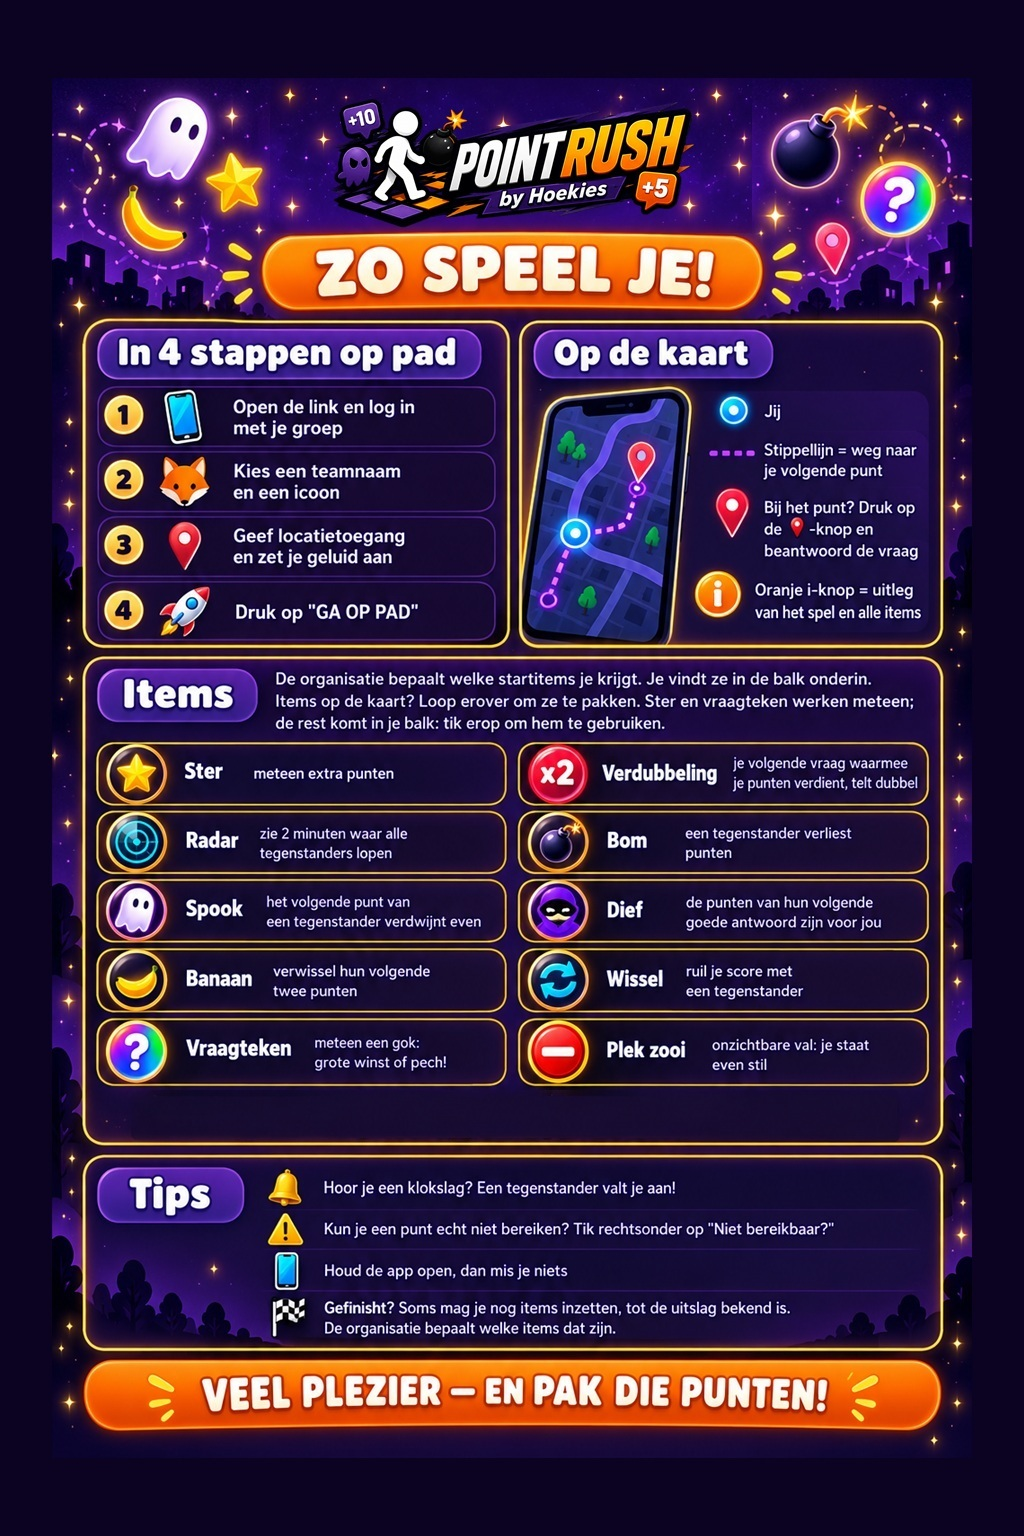
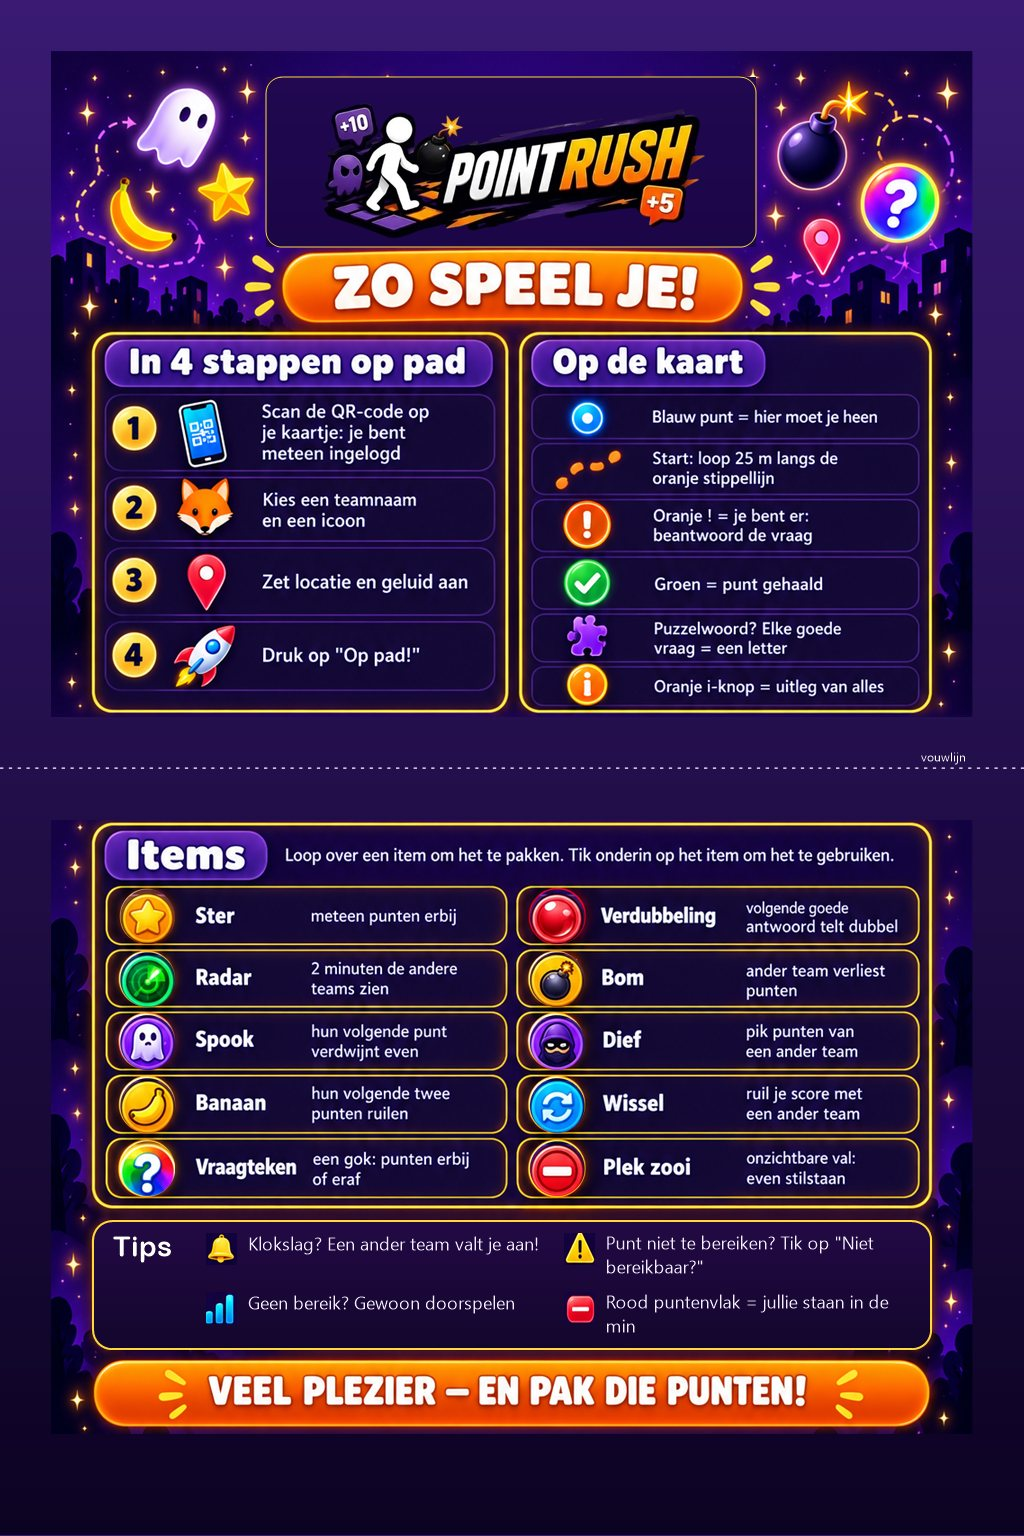
Nieuwe spelerskaart (A5, vouwlijn), prompts routekaarten, opruimen
- public/handleiding.jpg en klein-spelers.webp: nieuwe spelerskaart
- Prompts voor de routekaarten in dezelfde stijl (Codex)
- Printen van alle instructiekaarten op A5; printbare pagina weggehaald
- .gitignore opgeschoond

diff --git a/components/admin/InfoKnop.tsx b/components/admin/InfoKnop.tsx
@@ -11,8 +11,8 @@ import { useSluitMetEsc } from "@/components/shared/Venster";
 // papier = formaat bij 🖨 Printen
 const KAARTEN = [
   { titel: "Spelers (A5)", src: "/handleiding.jpg", klein: "/kaarten/klein-spelers.webp", papier: "A5" },
-  { titel: "Route op volgorde", src: "/kaarten/route-op-volgorde.webp", klein: "/kaarten/klein-route-op-volgorde.webp", papier: "A4" },
-  { titel: "Verspreide route", src: "/kaarten/verspreid.webp", klein: "/kaarten/klein-verspreid.webp", papier: "A4" },
+  { titel: "Route op volgorde", src: "/kaarten/route-op-volgorde.webp", klein: "/kaarten/klein-route-op-volgorde.webp", papier: "A5" },
+  { titel: "Verspreide route", src: "/kaarten/verspreid.webp", klein: "/kaarten/klein-verspreid.webp", papier: "A5" },
 ];
 
 // 🖨 Kaart printen: een eigen venster met alleen de kaart, staand op het juiste papier, zonder marges;
@@ -69,15 +69,6 @@ export default function InfoKnop() {
                 </div>
               ))}
             </div>
-
-            {/* Reserve: dezelfde spelerskaart als pagina, altijd gelijk aan de uitleg in de app (A5, dubbel te vouwen) */}
-            <a href="/admin/instructiekaart" className="info-regel" onClick={() => setOpen(false)}>
-              <span style={{ fontSize: "1.6rem" }}>🃏</span>
-              <span>
-                <strong>Spelerskaart om te printen</strong>
-                <span className="info-sub">A5, dubbel te vouwen; altijd gelijk aan de uitleg in de app</span>
-              </span>
-            </a>
 
             <div className="info-kofi"><KoFiKnop /></div>
             <VersieRegel />

diff --git a/docs/afbeelding-prompt-verspreid.md b/docs/afbeelding-prompt-verspreid.md
@@ -1,71 +1,57 @@
 # Afbeelding-prompt — Verspreide route (lus)
 
-Plak de tekst hieronder (in de codeblok) in ChatGPT om een geïllustreerde, posterachtige
-spelhandleiding te laten genereren voor het speltype **Verspreide route**. Gebaseerd op
-[spel-verspreid.md](spel-verspreid.md) en het kleurenpalet van de app.
+Prompt voor **Codex**: maakt de instructiekaart voor het speltype **Verspreide route**, in dezelfde stijl
+als de spelerskaart (`public/handleiding.jpg`), en vervangt de kaart in `public/kaarten/`. Maak eerst de
+spelerskaart, dan deze: Codex neemt de stijl daarvan over. Gebaseerd op [spel-verspreid.md](spel-verspreid.md).
 
 ```
-Create a single vertical poster-style infographic (portrait, 1024x1536) that works as a
-quick-reference game manual for a GPS scavenger hunt mobile game called "PointRush".
-All text, labels and headers inside the image must be in DUTCH, written exactly as given
-below — do not translate or invent extra text.
+Maak een nieuwe printbare instructiekaart voor het speltype "Verspreide route" van de GPS-game PointRush en vervang daarmee de bestaande kaart in deze repo. Pas geen code aan.
 
-VISUAL STYLE: dark, glowing "game night" aesthetic. Background is a radial gradient from
-deep purple (#3a1a73) through indigo (#1c0c45) to near-black (#0c0322), like a night sky.
-Rounded glassy dark-navy panels (frosted glass cards, subtle cyan border glow) hold each
-section. Bold, chunky, rounded display typography (similar to "Space Grotesk" bold),
-white/light-blue body text (#e8f0ff). Accent colors for icons, borders and highlights:
-electric cyan (#00d9ff), gold/yellow (#ffd93b), orange (#ff8a00), green (#22c55e), red
-(#ff3b5c), purple (#8b5cf6). Small glowing sparkle/star particles floating in the
-background. Flat vector illustration style, game-UI look, NOT photorealistic.
+STIJL: precies dezelfde stijl als de spelerskaart public/handleiding.jpg (achtergrond, panelen met gouden rand, letters, kleuren, oranje pillen en balk, sparkles). Gebruik public/logo-breed.png als logo (exact overnemen: niet hertekenen, niet herletteren, niet verkleuren) en de iconen uit public/items/<naam>.webp als voorbeeld voor items.
 
-TITLE (top banner, large): "🎲 Verspreide route — speluitleg"
-Subtitle beneath it: "Zelfde lus, ieder team een eigen startpunt."
+FORMAAT EN VOUWEN (belangrijk):
+- Staand, verhouding 2:3 (1024x1536), voor A5.
+- De kaart wordt dubbel gevouwen: precies op de helft van de hoogte een horizontale vouwlijn als dunne witte STIPPELLIJN over de hele breedte, rechts klein het woord "vouwlijn".
+- GEEN paneel, tekst of icoon over de vouwlijn: alles volledig in de bovenste óf onderste helft, met minstens 3% ruimte boven en onder de lijn. Alles minstens 5% van de buitenrand af.
 
-SECTION 1 — "Het idee" — a small diagram showing a circular loop of 6 numbered dots with a
-house-and-flag start/finish icon (🏠🏁) in the center. Three differently colored team arrows
-leave the center, each join the loop at a different dot, go around the loop, and return to the
-same center. The three team arrows from the center to the loop are about equally long. Caption:
-"Iedereen start en finisht op dezelfde plek. Elk team stapt op een eigen punt in de lus,
-ongeveer even ver van de start — je hoeft nooit te racen naar hetzelfde punt."
+TAAL: alle tekst in het NEDERLANDS, exact zoals hieronder. Geen andere tekst toevoegen of vertalen. Gebruik nooit het woord "hub".
 
-SECTION 2 — "Hoe begin je?" (4 numbered steps, each with a small icon):
-1. 📱 Open de link en log in met je groep
-2. 🦊 Kies een teamnaam en icoon
-3. 📍 Geef locatietoegang
-4. 🚀 Druk op "Ga op pad" — je krijgt je eigen startpunt
-Small note under the steps: "Soms krijg je bij de start al items gratis in je balk."
+BOVENSTE HELFT:
+1. Het logo, bovenaan in het midden.
+2. Glanzende oranje pil: "VERSPREIDE ROUTE"
+3. Paneel "Het idee" met een klein schema: een rondje van 6 genummerde punten, in het midden een vlag 🏁 (start en finish). Drie gekleurde team-pijlen gaan van het midden naar elk een ander punt op het rondje, ongeveer even lang. Onderschrift:
+   "Iedereen start en finisht op dezelfde plek. Elk team begint op een ander punt van het rondje."
+4. Paneel "Zo gaat het" (genummerd 1–4 in gouden rondjes):
+   1 📷 Scan de QR-code op je kaartje
+   2 🦊 Kies een teamnaam en een icoon
+   3 🚀 Druk op "Op pad!"
+   4 🟠 Loop 25 m langs de oranje stippellijn: dan krijg je je eerste vraag
 
-SECTION 3 — "De kaart" (small stylized map illustration with legend of map symbols):
-- 🦊 jullie teamicoon in een blauw rondje = jouw locatie
-- 🔢 genummerd cirkeltje = het volgende doel
-- ✅ groen vinkje = al bezocht
-- 👥 lichte stip = ander team, elders in de lus
-- ⛔ onzichtbaar = Plek zooi-val
-Caption: "Kom je een ander team tegen? Die is ergens anders in de lus bezig, jullie
-volgorde is niet gelijk."
+ONDERSTE HELFT:
+5. Paneel "Items". Eerst één regel: "Loop over een item om het te pakken. Tik onderin op het item om het te gebruiken."
+   Daarna een raster van 2 kolommen × 5 rijen, in precies deze volgorde (rond icoon + vette naam + korte uitleg):
+   Ster — meteen punten erbij
+   Verdubbeling — volgende goede antwoord telt dubbel
+   Radar — 2 minuten de andere teams zien
+   Bom — ander team verliest punten
+   Spook — hun volgende punt verdwijnt even
+   Dief — pik punten van een ander team
+   Banaan — hun volgende twee punten ruilen
+   Wissel — ruil je score met een ander team
+   Vraagteken — een gok: punten erbij of eraf
+   Plek zooi — onzichtbare val: even stilstaan
+6. Paneel "Tips" (2 kolommen):
+   👣 Loop niet achter een ander team aan: hun volgorde is anders
+   🔄 Komen items terug? Dan loont nog een rondje
+   🔔 Klokslag? Een ander team valt je aan!
+   🧩 Puzzelwoord? Elke goede vraag = een letter
+7. Onderaan een brede glanzende oranje balk met witte tekst: "PAK DE PUNTEN EN MAAK HET WOORD!"
 
-SECTION 4 — "Speciale items" as an icon grid of 2 columns × 5 rows, in exactly this order,
-each cell = emoji + short Dutch label:
-⭐ Ster — meteen extra punten · 🔴 Verdubbeling — volgende vraag telt dubbel
-📡 Radar — zie alle tegenstanders · 💣 Bom — tegenstander verliest punten
-👻 Spook — hun volgende punt verdwijnt · 🦹 Dief — steel hun volgende punten
-🍌 Banaan — gooi hun volgende punt om · 🔄 Wissel — ruil je score
-❓ Vraagteken — meteen een gok: winst of pech · ⛔ Plek zooi — onzichtbare val
-Small note: "Ster en vraagteken werken meteen. De rest komt in je balk: tik erop en kies
-een tegenstander. Uitleg staat onder de i-knop."
-Small note with a "🔄 respawn" badge icon: "Staat respawn aan? Dan komen opgeraapte items
-later weer terug op de kaart."
+Overzichtelijk en in een paar seconden te scannen: duidelijke hiërarchie, ruime marges, consequente ronde vormen, geen extra tekst.
 
-SECTION 5 — "Tips" (short bullet list with a lightbulb icon 💡):
-- Ga niet achter een ander team aan, hun volgorde is anders dan die van jou
-- Staat respawn aan? Dan loont een tweede rondje langs een goede plek
-- Je items blijven in je balk, ook als de app herlaadt
-- Gefinisht? Soms mag je nog items inzetten op teams die onderweg zijn, tot de uitslag bekend is
-
-FOOTER banner: "🏁 Terug bij de start staat je score vast — bekijk de eindstand!"
-
-Never use the word "hub" anywhere in the image; call the shared start/finish spot "start"
-or "de start". Layout: clear visual hierarchy, generous padding, rounded corners everywhere, no
-photorealistic humans, no readable brand logos other than the "PointRush" title itself.
+NA HET MAKEN:
+1. Sla het origineel op als "extra info/instructiekaart/verspreid.png".
+2. Vervang public/kaarten/verspreid.webp en public/kaarten/verspreid.jpg (1024x1536; webp en jpg kwaliteit ±85, elk kleiner dan 600 KB).
+3. Vervang public/kaarten/klein-verspreid.webp door een verkleinde versie met dezelfde afmetingen als het huidige bestand.
+4. Meld welke bestanden zijn vervangen, met afmetingen en grootte.
 ```

diff --git a/docs/afbeelding-prompt-sequentieel.md b/docs/afbeelding-prompt-sequentieel.md
@@ -1,54 +1,55 @@
 # Afbeelding-prompt — Route op volgorde (Sequentieel)
 
-Plak de tekst hieronder (in de codeblok) in ChatGPT om een geïllustreerde, posterachtige
-spelhandleiding te laten genereren voor het speltype **Route op volgorde**. Gebaseerd op
-[spel-sequentieel.md](spel-sequentieel.md) en het kleurenpalet van de app.
+Prompt voor **Codex**: maakt de instructiekaart voor het speltype **Route op volgorde**, in dezelfde stijl
+als de spelerskaart (`public/handleiding.jpg`), en vervangt de kaart in `public/kaarten/`. Maak eerst de
+spelerskaart, dan deze: Codex neemt de stijl daarvan over. Gebaseerd op [spel-sequentieel.md](spel-sequentieel.md).
 
 ```
-Create a single vertical poster-style infographic (portrait, 1024x1536) that works as a
-quick-reference game manual for a GPS scavenger hunt mobile game called "PointRush".
-All text, labels and headers inside the image must be in DUTCH, written exactly as given
-below — do not translate or invent extra text.
+Maak een nieuwe printbare instructiekaart voor het speltype "Route op volgorde" van de GPS-game PointRush en vervang daarmee de bestaande kaart in deze repo. Pas geen code aan.
 
-VISUAL STYLE: dark, glowing "game night" aesthetic. Background is a radial gradient from
-deep purple (#3a1a73) through indigo (#1c0c45) to near-black (#0c0322), like a night sky.
-Rounded glassy dark-navy panels (like frosted glass cards, subtle cyan border glow) hold
-each section. Bold, chunky, rounded display typography (similar to "Space Grotesk" bold),
-white/light-blue body text (#e8f0ff). Accent colors used for icons, borders and highlights:
-electric cyan (#00d9ff), gold/yellow (#ffd93b), orange (#ff8a00), green (#22c55e), red
-(#ff3b5c), purple (#8b5cf6). Small glowing sparkle/star particles floating in the background.
-Flat vector illustration style, game-UI look, NOT photorealistic.
+STIJL: precies dezelfde stijl als de spelerskaart public/handleiding.jpg (achtergrond, panelen met gouden rand, letters, kleuren, oranje pillen en balk, sparkles). Gebruik public/logo-breed.png als logo (exact overnemen: niet hertekenen, niet herletteren, niet verkleuren) en de iconen uit public/items/<naam>.webp als voorbeeld voor items.
 
-TITLE (top banner, large): "🎯 Route op volgorde — speluitleg"
-Subtitle beneath it: "Loop de route. Pak de punten. Saboteer je vrienden."
+FORMAAT EN VOUWEN (belangrijk):
+- Staand, verhouding 2:3 (1024x1536), voor A5.
+- De kaart wordt dubbel gevouwen: precies op de helft van de hoogte een horizontale vouwlijn als dunne witte STIPPELLIJN over de hele breedte, rechts klein het woord "vouwlijn".
+- GEEN paneel, tekst of icoon over de vouwlijn: alles volledig in de bovenste óf onderste helft, met minstens 3% ruimte boven en onder de lijn. Alles minstens 5% van de buitenrand af.
 
-SECTION 1 — "Hoe begin je?" (4 numbered steps in a row or stack, each with a small icon):
-1. 📱 Open de link en log in met je groep
-2. 🦊 Kies een teamnaam en icoon
-3. 📍 Geef locatietoegang
-4. 🚀 Druk op "Ga op pad"
+TAAL: alle tekst in het NEDERLANDS, exact zoals hieronder. Geen andere tekst toevoegen of vertalen.
 
-SECTION 2 — "De kaart" (a small stylized map illustration with a legend of 5 map symbols):
-- 🦊 jullie teamicoon in een blauw rondje = jouw locatie
-- 🔢 genummerd cirkeltje = het volgende doel
-- ✅ groen vinkje = al bezocht
-- 👥 lichte stip = ander team (globale positie)
-- ⛔ onzichtbaar = Plek zooi-val
-Caption under the map: "Toekomstige punten zijn onzichtbaar — pas als je het huidige punt
-hebt afgerond, verschijnt het volgende."
+BOVENSTE HELFT:
+1. Het logo, bovenaan in het midden.
+2. Glanzende oranje pil: "ROUTE OP VOLGORDE"
+3. Eén korte regel eronder: "Loop de punten één voor één af. Wie de meeste punten haalt, wint."
+4. Twee panelen naast elkaar:
+   Paneel "Zo gaat het" (genummerd 1–4 in gouden rondjes):
+   1 📷 Scan de QR-code op je kaartje
+   2 🦊 Kies een teamnaam en een icoon
+   3 🚀 Druk op "Op pad!"
+   4 📍 Loop naar het blauwe punt: daar krijg je een vraag
+   Paneel "Op de kaart":
+   🔵 Blauw punt = hier moet je heen
+   ❗ Oranje ! = je bent er: beantwoord de vraag
+   ✅ Groen = punt gehaald
+   👀 Pas na dit punt zie je het volgende
+   🏁 Vlag = de finish
 
-SECTION 3 — "Je startitems" with two icon cards side by side:
-🍌 Banaan — "Na de eerste 100 meter krijg je startitems van de organisatie, meestal een banaan.
-Gooi hem naar een tegenstander: hun volgende punt wordt omgewisseld (het eindpunt nooit)."
-⛔ Plek zooi — "Onzichtbare val op de kaart. Loop je erover, dan sta je een paar minuten stil."
+ONDERSTE HELFT:
+5. Paneel "Items" met twee grote kaartjes naast elkaar:
+   🍌 Banaan — "Je start met een banaan. Gooi hem naar een ander team: hun volgende twee punten ruilen. Zij lopen dus om."
+   ⛔ Plek zooi — "Een onzichtbare val op de route. Loop je erin, dan sta je even stil."
+   Eronder klein: "De organisatie kan andere startitems kiezen. Tik onderin op een item om het te gebruiken."
+6. Paneel "Tips":
+   💡 Bewaar je banaan voor het juiste moment
+   🎯 Gooi hem naar een team dat bijna bij een punt is
+   🔔 Klokslag? Een ander team valt je aan!
+   🧩 Puzzelwoord? Elke goede vraag = een letter
+7. Onderaan een brede glanzende oranje balk met witte tekst: "PAK DE PUNTEN EN MAAK HET WOORD!"
 
-SECTION 4 — "Tips" (short bullet list with a lightbulb icon 💡):
-- Bewaar je banaan voor het juiste moment
-- Gooi hem naar een team dat bijna bij een punt is
-- Je items blijven bewaard, ook als de app herlaadt
+Overzichtelijk en in een paar seconden te scannen: duidelijke hiërarchie, ruime marges, consequente ronde vormen, geen extra tekst.
 
-FOOTER banner: "🏁 Bij het eindpunt staat je score vast — bekijk de eindstand!"
-
-Layout: clear visual hierarchy, generous padding, rounded corners everywhere, no
-photorealistic humans, no readable brand logos other than the "PointRush" title itself.
+NA HET MAKEN:
+1. Sla het origineel op als "extra info/instructiekaart/route-op-volgorde.png".
+2. Vervang public/kaarten/route-op-volgorde.webp en public/kaarten/route-op-volgorde.jpg (1024x1536; webp en jpg kwaliteit ±85, elk kleiner dan 600 KB).
+3. Vervang public/kaarten/klein-route-op-volgorde.webp door een verkleinde versie met dezelfde afmetingen als het huidige bestand.
+4. Meld welke bestanden zijn vervangen, met afmetingen en grootte.
 ```

diff --git a/docs/beheerdershandleiding.md b/docs/beheerdershandleiding.md
@@ -16,7 +16,7 @@ Als beheerder stel jij de routes in, maak je de spelers aan, start je het spel e
 | 🗺 **Routes** | Routes maken, klaarzetten, activeren, voorproefje |
 | **Spel** | 🏆 Tussenstand, WhatsApp (inloggegevens versturen), 🔔 Meldingen |
 | **Beheer** | 🩺 Systeemcheck |
-| **Info & uitleg** | Deze handleiding, de instructiekaarten (met **🖨 Printen**: de spelerskaart op A5, de routekaarten op A4), Ko-fi, en het versienummer met de datum van de laatste update |
+| **Info & uitleg** | Deze handleiding, de instructiekaarten (met **🖨 Printen** op A5, dubbel te vouwen), Ko-fi, en het versienummer met de datum van de laatste update |
 
 Rechtsboven (op de telefoon in de bovenbalk) staan **📢 Bericht sturen** en **Uitloggen**. Alles wat je niet per ongeluk wilt doen, vraagt eerst om bevestiging in een venster; annuleren doe je met het ✕ rechtsboven, door naast het venster te tikken of met Esc.
 
